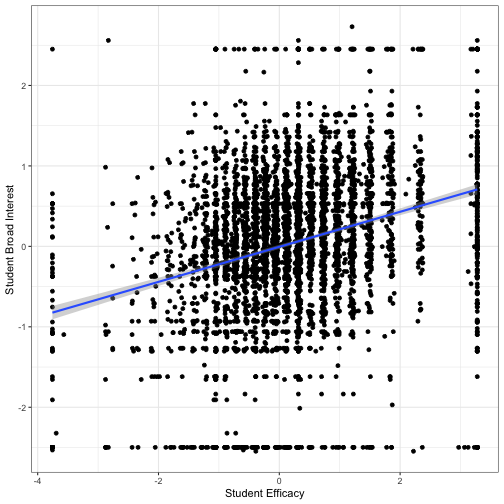
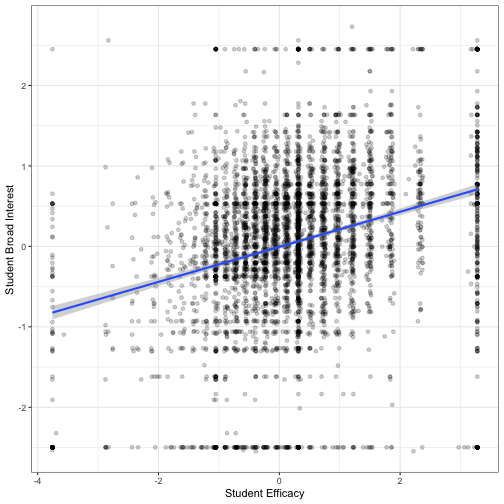
added RStudio Cloud info

diff --git a/index.html b/index.html
@@ -14,7 +14,7 @@
 class: center, middle, inverse, title-slide
 
 # R U ready 4 R?
-## Analyzing Educational Internet Data Using R
+## Introduction to Analyzing Educational Internet Data Using R
 ### Bret Staudt Willet, Joshua Rosenberg, &amp; Spencer Greenhalgh
 ### March 6, 2020
 
@@ -104,14 +104,14 @@ You can access all of the workshop materials at: https://github.com/bretsw/fsu-w
 # Installing R and RStudio
 
 To download R:
-- Visit this page to download R: https://cran.r-project.org/
-- Find your operating system (Mac, Windows, or Linux)
-- Download the 'latest release' on the page for your operating system and download and install the application
+* [Visit this page to download R](https://cran.r-project.org/)
+* Find your operating system (Mac, Windows, or Linux)
+* Download the 'latest release' on the page for your operating system and download and install the application
 
 To download RStudio:
-- Visit this page to download RStudio: https://www.rstudio.com/products/rstudio/download/
-- Find your operating system (Mac, Windows, or Linux)
-- Download the 'latest release' on the page for your operating system and download and install the application
+* [Visit this page to download RStudio](https://rstudio.com/products/rstudio/download/)
+* Find your operating system (Mac, Windows, or Linux)
+* Download the 'latest release' on the page for your operating system and download and install the application
 
 ## Check that it worked
 
@@ -119,11 +119,23 @@ Open RStudio. Find the console window and type in `2 + 2`. If what you can guess
 
 ---
 
+# RStudio Cloud: An alternative to installing R and RStudio
+
+If you are having trouble downloading R or RStudion, don't worry, you're not alone. In fact, in the workshops we've run, we have seen enough new R users struggle just to get going that we now suggest using RStudio Cloud as an alternative. 
+
+**[This link will take you to the RStudio Cloud project for this workshop].**
+
+Once you have navigated to this webpage, log in using a Google or Github account. Then, create a permanent copy of the project in your own workspace (see the prompt at the top of the page guiding you to do this.
+
+From here, you can write and run R code exactly as your would through RStudio on your computer. The downside is that opening and loading projects are slowed by Internet connection speeds. The upside is that you don't have to worry about R and RStudio downloads, and your computing power is running off of RStudio Cloud's servers, not your local machine. Once you start running advanced statistical models, computing power bgins to make a huge difference.
+
+---
+
 # Working with R projects
 
 Before proceeding, we're going to take a few steps to set ourselves to make the analysis easier; namely, through the use of Projects, an RStudio-specific organizational tool. 
 
-We already have a project set up. Navigate to the downloaded repo files and open `fsu-workshop-2019.Rproj`
+We already have a project set up. Navigate to the downloaded repo files and open `fsu-workshop-2019.Rproj`.
 
 (To create a project in RStudio, you can navigate to "File" and then "New Directory". Then, click "New Project".)
 
@@ -275,7 +287,7 @@ Note that we saved the output from the `select()` function to `student_mot_vars`
 ```r
 student_responses &lt;- # save object student_responses by...
   student_responses %&gt;% # using dataframe student_responses
-  select(student_responses, SCIEEFF, JOYSCIE, INTBRSCI, EPIST, INSTSCIE) # and selecting only these five variables
+  select(SCIEEFF, JOYSCIE, INTBRSCI, EPIST, INSTSCIE) # and selecting only these five variables
 ```
 
 ---
@@ -465,7 +477,6 @@ student_responses %&gt;%
 
 On average, there are approximately 32 (*SD* = 8.61) students in each teachers' class.
 
-
 ---
 
 class: inverse, center, middle
@@ -624,7 +635,7 @@ ggplot(student_mot_vars,
 ```r
 ggplot(student_mot_vars,
        aes(x = student_efficacy, y = student_broad_interest)) +
-  geom_point() +
+  geom_point(alpha = 0.2) + # 'alpha' controls the transparency of points
   geom_smooth(method = "lm") +
   theme_bw() +
   xlab("Student Efficacy") +
